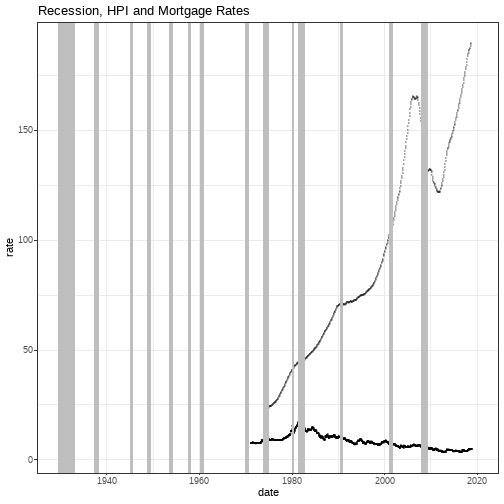
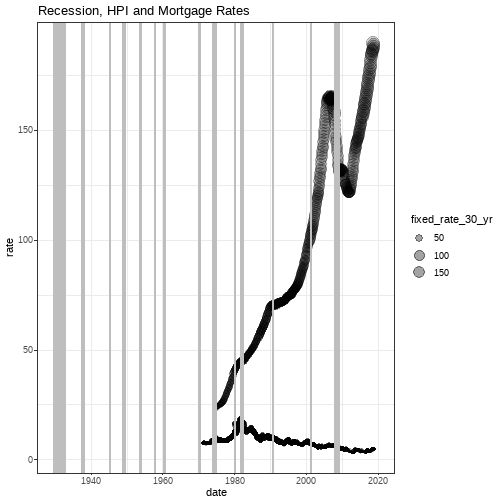
add final draft

diff --git a/presentation.html b/presentation.html
@@ -25,29 +25,63 @@ class: inverse
 
 #### Team Members:
 
-- &lt;svg style="height:0.8em;top:.04em;position:relative;" viewBox="0 0 496 512"&gt;&lt;path d="M248 8C111 8 0 119 0 256s111 248 248 248 248-111 248-248S385 8 248 8zm80 168c17.7 0 32 14.3 32 32s-14.3 32-32 32-32-14.3-32-32 14.3-32 32-32zm-160 0c17.7 0 32 14.3 32 32s-14.3 32-32 32-32-14.3-32-32 14.3-32 32-32zm80 256c-60.6 0-134.5-38.3-143.8-93.3-2-11.8 9.3-21.6 20.7-17.9C155.1 330.5 200 336 248 336s92.9-5.5 123.1-15.2c11.3-3.7 22.6 6.1 20.7 17.9-9.3 55-83.2 93.3-143.8 93.3z"/&gt;&lt;/svg&gt; "Dea Avega Editya"
+- &lt;svg style="height:0.8em;top:.04em;position:relative;fill:yellow;" viewBox="0 0 496 512"&gt;&lt;path d="M248 8C111 8 0 119 0 256s111 248 248 248 248-111 248-248S385 8 248 8zm80 168c17.7 0 32 14.3 32 32s-14.3 32-32 32-32-14.3-32-32 14.3-32 32-32zm-160 0c17.7 0 32 14.3 32 32s-14.3 32-32 32-32-14.3-32-32 14.3-32 32-32zm80 256c-60.6 0-134.5-38.3-143.8-93.3-2-11.8 9.3-21.6 20.7-17.9C155.1 330.5 200 336 248 336s92.9-5.5 123.1-15.2c11.3-3.7 22.6 6.1 20.7 17.9-9.3 55-83.2 93.3-143.8 93.3z"/&gt;&lt;/svg&gt; "Dea Avega Editya"
 
-- &lt;svg style="height:0.8em;top:.04em;position:relative;" viewBox="0 0 496 512"&gt;&lt;path d="M248 8C111 8 0 119 0 256s111 248 248 248 248-111 248-248S385 8 248 8zM94.6 168.9l34.9-5 15.5-31.6c2.9-5.8 11-5.8 13.9 0l15.5 31.6 34.9 5c6.2 1 8.9 8.6 4.3 13.2l-25.4 24.6 6 34.9c1 6.2-5.3 11-11 7.9L152 233.3l-31.3 16.3c-5.7 3.1-12-1.7-11-7.9l6-34.9-25.4-24.6c-4.6-4.7-1.9-12.3 4.3-13.3zM248 432c-60.6 0-134.5-38.3-143.8-93.3-2-11.8 9.3-21.5 20.7-17.9C155.1 330.5 200 336 248 336s92.9-5.5 123.1-15.2c11.5-3.7 22.6 6.1 20.7 17.9-9.3 55-83.2 93.3-143.8 93.3zm157.7-249.9l-25.4 24.6 6 34.9c1 6.2-5.3 11-11 7.9L344 233.3l-31.3 16.3c-5.7 3.1-12-1.7-11-7.9l6-34.9-25.4-24.6c-4.5-4.6-1.9-12.2 4.3-13.2l34.9-5 15.5-31.6c2.9-5.8 11-5.8 13.9 0l15.5 31.6 34.9 5c6.3.9 9 8.5 4.4 13.1z"/&gt;&lt;/svg&gt; "Siyi Li"
+- &lt;svg style="height:0.8em;top:.04em;position:relative;fill:yellow;" viewBox="0 0 496 512"&gt;&lt;path d="M248 8C111 8 0 119 0 256s111 248 248 248 248-111 248-248S385 8 248 8zM94.6 168.9l34.9-5 15.5-31.6c2.9-5.8 11-5.8 13.9 0l15.5 31.6 34.9 5c6.2 1 8.9 8.6 4.3 13.2l-25.4 24.6 6 34.9c1 6.2-5.3 11-11 7.9L152 233.3l-31.3 16.3c-5.7 3.1-12-1.7-11-7.9l6-34.9-25.4-24.6c-4.6-4.7-1.9-12.3 4.3-13.3zM248 432c-60.6 0-134.5-38.3-143.8-93.3-2-11.8 9.3-21.5 20.7-17.9C155.1 330.5 200 336 248 336s92.9-5.5 123.1-15.2c11.5-3.7 22.6 6.1 20.7 17.9-9.3 55-83.2 93.3-143.8 93.3zm157.7-249.9l-25.4 24.6 6 34.9c1 6.2-5.3 11-11 7.9L344 233.3l-31.3 16.3c-5.7 3.1-12-1.7-11-7.9l6-34.9-25.4-24.6c-4.5-4.6-1.9-12.2 4.3-13.2l34.9-5 15.5-31.6c2.9-5.8 11-5.8 13.9 0l15.5 31.6 34.9 5c6.3.9 9 8.5 4.4 13.1z"/&gt;&lt;/svg&gt; "Siyi Li"
 
-- &lt;svg style="height:0.8em;top:.04em;position:relative;" viewBox="0 0 496 512"&gt;&lt;path d="M0 256c0 137 111 248 248 248s248-111 248-248S385 8 248 8 0 119 0 256zm200-48c0 17.7-14.3 32-32 32s-32-14.3-32-32 14.3-32 32-32 32 14.3 32 32zm158.5 16.5c-14.8-13.2-46.2-13.2-61 0L288 233c-8.3 7.4-21.6.4-19.8-10.8 4-25.2 34.2-42.1 59.9-42.1S384 197 388 222.2c1.7 11.1-11.4 18.3-19.8 10.8l-9.7-8.5zM157.8 325.8C180.2 352.7 213 368 248 368s67.8-15.4 90.2-42.2c13.6-16.2 38.1 4.2 24.6 20.5C334.3 380.4 292.5 400 248 400s-86.3-19.6-114.8-53.8c-13.5-16.3 11.2-36.7 24.6-20.4z"/&gt;&lt;/svg&gt; "Xitong He"
+- &lt;svg style="height:0.8em;top:.04em;position:relative;fill:yellow;" viewBox="0 0 496 512"&gt;&lt;path d="M0 256c0 137 111 248 248 248s248-111 248-248S385 8 248 8 0 119 0 256zm200-48c0 17.7-14.3 32-32 32s-32-14.3-32-32 14.3-32 32-32 32 14.3 32 32zm158.5 16.5c-14.8-13.2-46.2-13.2-61 0L288 233c-8.3 7.4-21.6.4-19.8-10.8 4-25.2 34.2-42.1 59.9-42.1S384 197 388 222.2c1.7 11.1-11.4 18.3-19.8 10.8l-9.7-8.5zM157.8 325.8C180.2 352.7 213 368 248 368s67.8-15.4 90.2-42.2c13.6-16.2 38.1 4.2 24.6 20.5C334.3 380.4 292.5 400 248 400s-86.3-19.6-114.8-53.8c-13.5-16.3 11.2-36.7 24.6-20.4z"/&gt;&lt;/svg&gt; "Xitong He"
+
+--
+
+.center[
+# "Make a Plot Bad Again!" &lt;svg style="height:0.8em;top:.04em;position:relative;fill:white;" viewBox="0 0 384 512"&gt;&lt;path d="M255.98 160V16c0-8.84-7.16-16-16-16h-32c-8.84 0-16 7.16-16 16v146.93c5.02-1.78 10.34-2.93 15.97-2.93h48.03zm128 95.99c-.01-35.34-28.66-63.99-63.99-63.99H207.85c-8.78 0-15.9 7.07-15.9 15.85v.56c0 26.27 21.3 47.59 47.57 47.59h35.26c9.68 0 13.2 3.58 13.2 8v16.2c0 4.29-3.59 7.78-7.88 8-44.52 2.28-64.16 24.71-96.05 72.55l-6.31 9.47a7.994 7.994 0 0 1-11.09 2.22l-13.31-8.88a7.994 7.994 0 0 1-2.22-11.09l6.31-9.47c15.73-23.6 30.2-43.26 47.31-58.08-17.27-5.51-31.4-18.12-38.87-34.45-6.59 3.41-13.96 5.52-21.87 5.52h-32c-12.34 0-23.49-4.81-32-12.48C71.48 251.19 60.33 256 48 256H16c-5.64 0-10.97-1.15-16-2.95v77.93c0 33.95 13.48 66.5 37.49 90.51L63.99 448v64h255.98v-63.96l35.91-35.92A96.035 96.035 0 0 0 384 344.21l-.02-88.22zm-32.01-90.09V48c0-8.84-7.16-16-16-16h-32c-8.84 0-16 7.16-16 16v112h32c11.28 0 21.94 2.31 32 5.9zM16 224h32c8.84 0 16-7.16 16-16V80c0-8.84-7.16-16-16-16H16C7.16 64 0 71.16 0 80v128c0 8.84 7.16 16 16 16zm95.99 0h32c8.84 0 16-7.16 16-16V48c0-8.84-7.16-16-16-16h-32c-8.84 0-16 7.16-16 16v160c0 8.84 7.16 16 16 16z"/&gt;&lt;/svg&gt;
+]
 ---
 
 # Data collection &lt;svg style="height:0.8em;top:.04em;position:relative;" viewBox="0 0 448 512"&gt;&lt;path d="M448 73.143v45.714C448 159.143 347.667 192 224 192S0 159.143 0 118.857V73.143C0 32.857 100.333 0 224 0s224 32.857 224 73.143zM448 176v102.857C448 319.143 347.667 352 224 352S0 319.143 0 278.857V176c48.125 33.143 136.208 48.572 224 48.572S399.874 209.143 448 176zm0 160v102.857C448 479.143 347.667 512 224 512S0 479.143 0 438.857V336c48.125 33.143 136.208 48.572 224 48.572S399.874 369.143 448 336z"/&gt;&lt;/svg&gt;
 
-Loading the data from the [dugong](https://github.com/etc5521-2020/assignment-1-dugong) repo
+Data source: [dugong](https://github.com/etc5521-2020/assignment-1-dugong) repo
+
+#### Reading the dataset
+
+
+```r
+mortgage_rates &lt;- readr::read_csv(here::here("data/mortgage_rates.csv"))
+state_hpi &lt;-readr::read_csv(here::here("data/state_hpi.csv"))
+```
+
+
 
 
 
 ---
+# A Brief Story about the Original Plot 
 
-# Original plot &lt;svg style="height:0.8em;top:.04em;position:relative;" viewBox="0 0 512 512"&gt;&lt;path d="M104 224H24c-13.255 0-24 10.745-24 24v240c0 13.255 10.745 24 24 24h80c13.255 0 24-10.745 24-24V248c0-13.255-10.745-24-24-24zM64 472c-13.255 0-24-10.745-24-24s10.745-24 24-24 24 10.745 24 24-10.745 24-24 24zM384 81.452c0 42.416-25.97 66.208-33.277 94.548h101.723c33.397 0 59.397 27.746 59.553 58.098.084 17.938-7.546 37.249-19.439 49.197l-.11.11c9.836 23.337 8.237 56.037-9.308 79.469 8.681 25.895-.069 57.704-16.382 74.757 4.298 17.598 2.244 32.575-6.148 44.632C440.202 511.587 389.616 512 346.839 512l-2.845-.001c-48.287-.017-87.806-17.598-119.56-31.725-15.957-7.099-36.821-15.887-52.651-16.178-6.54-.12-11.783-5.457-11.783-11.998v-213.77c0-3.2 1.282-6.271 3.558-8.521 39.614-39.144 56.648-80.587 89.117-113.111 14.804-14.832 20.188-37.236 25.393-58.902C282.515 39.293 291.817 0 312 0c24 0 72 8 72 81.452z"/&gt;&lt;/svg&gt;
+##### Mortgage Rate vs Housing Price Index Plot 
+
+.pull-left[
+![](presentation_files/figure-html/ori-1.png)&lt;!-- --&gt;
+]
+
+--
+.pull-right[
+* Created by Dugong team
+* Showing movement of mortgage rate (30 year tenor) versus Housing Price Index in United States of America
+* Data covers period from 1971 to 2018 in monthly basis
+* Its purpose is to explore relationship between these two variables  
+]
+
+---
+
+# Why is it Great &lt;svg style="height:0.8em;top:.04em;position:relative;fill:brown;" viewBox="0 0 512 512"&gt;&lt;path d="M104 224H24c-13.255 0-24 10.745-24 24v240c0 13.255 10.745 24 24 24h80c13.255 0 24-10.745 24-24V248c0-13.255-10.745-24-24-24zM64 472c-13.255 0-24-10.745-24-24s10.745-24 24-24 24 10.745 24 24-10.745 24-24 24zM384 81.452c0 42.416-25.97 66.208-33.277 94.548h101.723c33.397 0 59.397 27.746 59.553 58.098.084 17.938-7.546 37.249-19.439 49.197l-.11.11c9.836 23.337 8.237 56.037-9.308 79.469 8.681 25.895-.069 57.704-16.382 74.757 4.298 17.598 2.244 32.575-6.148 44.632C440.202 511.587 389.616 512 346.839 512l-2.845-.001c-48.287-.017-87.806-17.598-119.56-31.725-15.957-7.099-36.821-15.887-52.651-16.178-6.54-.12-11.783-5.457-11.783-11.998v-213.77c0-3.2 1.282-6.271 3.558-8.521 39.614-39.144 56.648-80.587 89.117-113.111 14.804-14.832 20.188-37.236 25.393-58.902C282.515 39.293 291.817 0 312 0c24 0 72 8 72 81.452z"/&gt;&lt;/svg&gt;
 .pull-left[
 ![](presentation_files/figure-html/plotly-1.png)&lt;!-- --&gt;
 ]
 
-   
 .pull-right[
 - using the `fixed_rate_30_yr` in `mortgage_rates` dataset and `us_avg` in `nation_hpi` dataset to construct the time series line trend via the `geom_line` function 
+
+- have the same starting date 1975/01/01 (by setting xlim for both)
 
 - different color to distinguish the line trend
 
@@ -56,8 +90,7 @@ Loading the data from the [dugong](https://github.com/etc5521-2020/assignment-1-
 ]
 ---
 
-
-# Bad Plot &lt;svg style="height:0.8em;top:.04em;position:relative;" viewBox="0 0 496 512"&gt;&lt;path d="M248 8C111 8 0 119 0 256s111 248 248 248 248-111 248-248S385 8 248 8zm80 168c17.7 0 32 14.3 32 32s-14.3 32-32 32-32-14.3-32-32 14.3-32 32-32zm-160 0c17.7 0 32 14.3 32 32s-14.3 32-32 32-32-14.3-32-32 14.3-32 32-32zm170.2 218.2C315.8 367.4 282.9 352 248 352s-67.8 15.4-90.2 42.2c-13.5 16.3-38.1-4.2-24.6-20.5C161.7 339.6 203.6 320 248 320s86.3 19.6 114.7 53.8c13.6 16.2-11 36.7-24.5 20.4z"/&gt;&lt;/svg&gt;
+# Bad Plot &lt;svg style="height:0.8em;top:.04em;position:relative;fill:yellow;" viewBox="0 0 496 512"&gt;&lt;path d="M248 8C111 8 0 119 0 256s111 248 248 248 248-111 248-248S385 8 248 8zm80 168c17.7 0 32 14.3 32 32s-14.3 32-32 32-32-14.3-32-32 14.3-32 32-32zm-160 0c17.7 0 32 14.3 32 32s-14.3 32-32 32-32-14.3-32-32 14.3-32 32-32zm170.2 218.2C315.8 367.4 282.9 352 248 352s-67.8 15.4-90.2 42.2c-13.5 16.3-38.1-4.2-24.6-20.5C161.7 339.6 203.6 320 248 320s86.3 19.6 114.7 53.8c13.6 16.2-11 36.7-24.5 20.4z"/&gt;&lt;/svg&gt;
 
 .pull-left[
 ![](presentation_files/figure-html/bad-1.png)&lt;!-- --&gt;
@@ -87,12 +120,14 @@ Loading the data from the [dugong](https://github.com/etc5521-2020/assignment-1-
 
 - Remove the annotation details in mortgage rate and hpi line trends
 
-- Reduce the size of point width,transparency and date rectangles
+- Add relative size for both variables
+
+- Reduce transparency and date rectangles
 ]
 
 
 ---
-## Disadvantage in bad plot &lt;svg style="height:0.8em;top:.04em;position:relative;" viewBox="0 0 512 512"&gt;&lt;path d="M256 8C119 8 8 119 8 256s111 248 248 248 248-111 248-248S393 8 256 8zm121.6 313.1c4.7 4.7 4.7 12.3 0 17L338 377.6c-4.7 4.7-12.3 4.7-17 0L256 312l-65.1 65.6c-4.7 4.7-12.3 4.7-17 0L134.4 338c-4.7-4.7-4.7-12.3 0-17l65.6-65-65.6-65.1c-4.7-4.7-4.7-12.3 0-17l39.6-39.6c4.7-4.7 12.3-4.7 17 0l65 65.7 65.1-65.6c4.7-4.7 12.3-4.7 17 0l39.6 39.6c4.7 4.7 4.7 12.3 0 17L312 256l65.6 65.1z"/&gt;&lt;/svg&gt;
+## Disadvantage in bad plot &lt;svg style="height:0.8em;top:.04em;position:relative;fill:red;" viewBox="0 0 512 512"&gt;&lt;path d="M256 8C119 8 8 119 8 256s111 248 248 248 248-111 248-248S393 8 256 8zm121.6 313.1c4.7 4.7 4.7 12.3 0 17L338 377.6c-4.7 4.7-12.3 4.7-17 0L256 312l-65.1 65.6c-4.7 4.7-12.3 4.7-17 0L134.4 338c-4.7-4.7-4.7-12.3 0-17l65.6-65-65.6-65.1c-4.7-4.7-4.7-12.3 0-17l39.6-39.6c4.7-4.7 12.3-4.7 17 0l65 65.7 65.1-65.6c4.7-4.7 12.3-4.7 17 0l39.6 39.6c4.7 4.7 4.7 12.3 0 17L312 256l65.6 65.1z"/&gt;&lt;/svg&gt;
 
 - Without the scale(*10), graphs are hard to compare, since the size of the values are different.
 
@@ -102,11 +137,21 @@ Loading the data from the [dugong](https://github.com/etc5521-2020/assignment-1-
 
 - Without secondary axis, it is difficult to get the rate of another one because of quite different scales.
 
--Reduce the value of 'alpha' in 'geom_rect', the graphs of rates are not continue anymore since the rectangles cover it.
+- Reduce the value of 'alpha' in 'geom_rect', the graphs of rates are not continue anymore since the rectangles cover it.
 
--Reduce the size of point width, the graph doesn't seem that obvious
+- Reduce the size of point width, the graph doesn't seem that obvious
 
--Lots of unrelated duration of the recession in the graph bofore 1970.
+- Lots of unrelated duration of the recession in the graph bofore 1970.
+
+
+---
+
+# Conclusion &lt;svg style="height:0.8em;top:.04em;position:relative;fill:green;" viewBox="0 0 576 512"&gt;&lt;path d="M275.3 250.5c7 7.4 18.4 7.4 25.5 0l108.9-114.2c31.6-33.2 29.8-88.2-5.6-118.8-30.8-26.7-76.7-21.9-104.9 7.7L288 36.9l-11.1-11.6C248.7-4.4 202.8-9.2 172 17.5c-35.3 30.6-37.2 85.6-5.6 118.8l108.9 114.2zm290 77.6c-11.8-10.7-30.2-10-42.6 0L430.3 402c-11.3 9.1-25.4 14-40 14H272c-8.8 0-16-7.2-16-16s7.2-16 16-16h78.3c15.9 0 30.7-10.9 33.3-26.6 3.3-20-12.1-37.4-31.6-37.4H192c-27 0-53.1 9.3-74.1 26.3L71.4 384H16c-8.8 0-16 7.2-16 16v96c0 8.8 7.2 16 16 16h356.8c14.5 0 28.6-4.9 40-14L564 377c15.2-12.1 16.4-35.3 1.3-48.9z"/&gt;&lt;/svg&gt;
+
+* Line plot is the best option for time series
+* Make variables comparable by using equal scale
+* Add relative size parameter to the plot has not really obvious (and maybe be useless) when observations are large,  
+* Differentiate colour of 2 variables can ease reader to understand the plot.
     </textarea>
 <style data-target="print-only">@media screen {.remark-slide-container{display:block;}.remark-slide-scaler{box-shadow:none;}}</style>
 <script src="https://remarkjs.com/downloads/remark-latest.min.js"></script>
